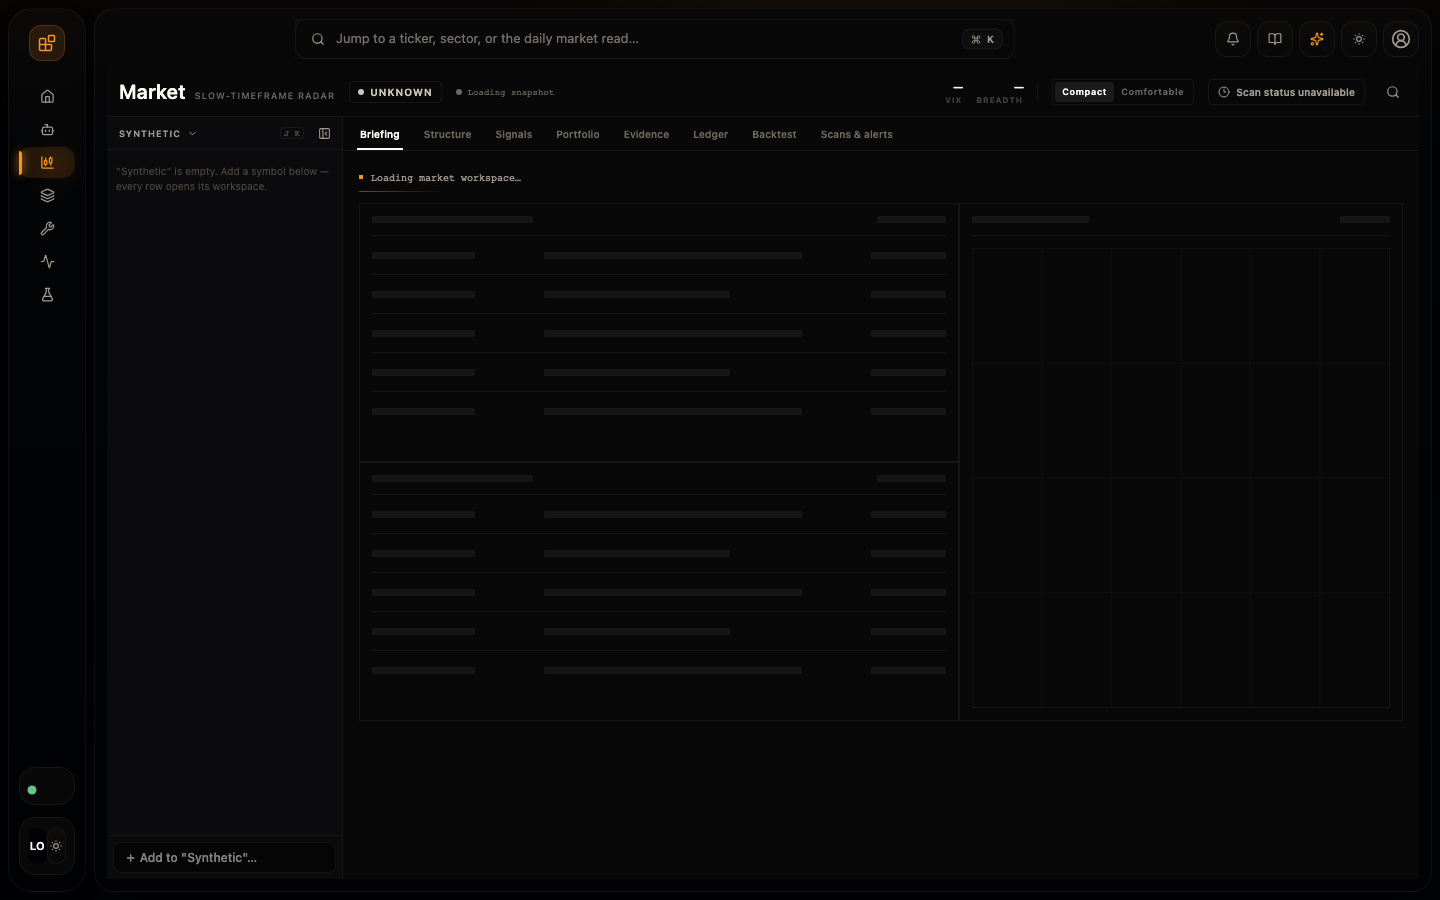
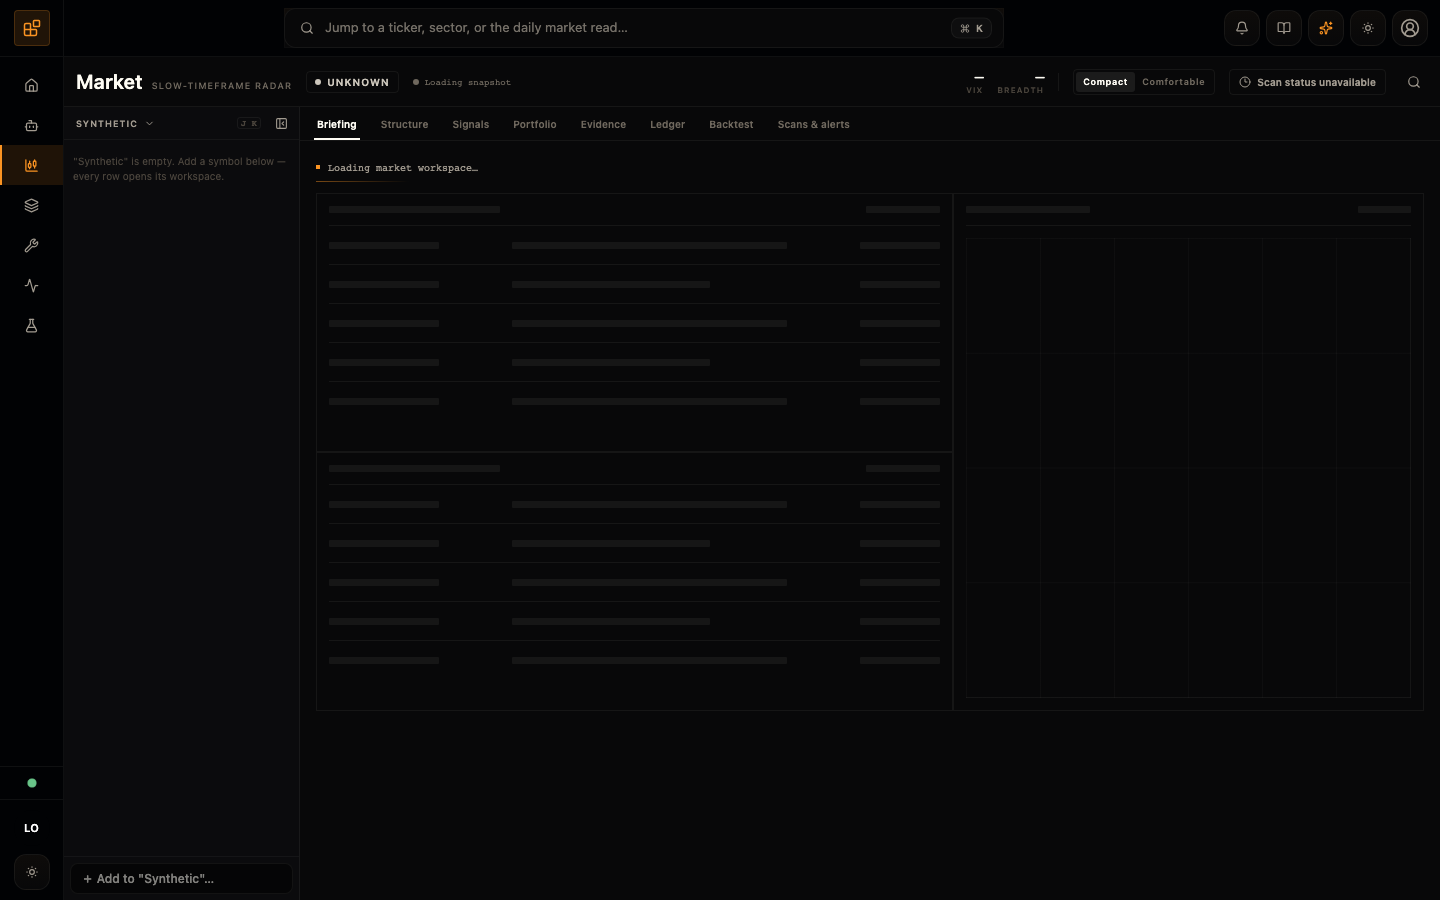
refactor(ui): flatten workspace shell and navigation rail
Remove the inset rounded shell, outer gutters, decorative backdrop, and isolated sidebar footer cards. Use an edge-to-edge workspace with thin dividers and a narrower collapsed navigation rail.

Verified typecheck and production build, synthetic chart-agent and loading browser flows, expanded navigation, both shell themes, and desktop/mobile geometry. Refresh sanitized Market screenshots.

diff --git a/src/copenet/host/frontend/src/components/SidebarNav.tsx b/src/copenet/host/frontend/src/components/SidebarNav.tsx
@@ -37,12 +37,12 @@ export function SidebarNav() {
 
   return (
     <aside
-      className={`shell-sidebar flex shrink-0 flex-col rounded-[24px] border border-shell-border bg-shell-sidebar py-4 shadow-shell transition-[width,padding] duration-200 ${
-        primaryNavCollapsed ? 'w-[78px] px-2.5' : 'w-[216px] px-3'
+      className={`shell-sidebar flex shrink-0 flex-col border-r border-shell-border bg-shell-sidebar transition-[width] duration-200 ${
+        primaryNavCollapsed ? 'w-16' : 'w-[216px]'
       }`}
     >
       {/* Brand */}
-      <div className={`flex items-center px-2 pb-5 ${primaryNavCollapsed ? 'justify-center' : 'justify-between gap-2.5'}`}>
+      <div className={`flex h-[57px] shrink-0 items-center border-b border-shell-border px-3 ${primaryNavCollapsed ? 'justify-center' : 'justify-between gap-2.5'}`}>
         <div className={`flex items-center ${primaryNavCollapsed ? 'justify-center' : 'gap-2.5'}`}>
           <button
             type="button"
@@ -50,7 +50,7 @@ export function SidebarNav() {
               if (primaryNavCollapsed) setPrimaryNavCollapsed(false);
             }}
             disabled={!primaryNavCollapsed}
-            className={`flex h-9 w-9 items-center justify-center rounded-xl border border-shell-accent/20 bg-shell-accent-soft text-shell-accent ${
+            className={`flex h-9 w-9 shrink-0 items-center justify-center rounded-sm border border-shell-accent/20 bg-shell-accent-soft text-shell-accent ${
               primaryNavCollapsed ? 'transition-colors hover:bg-shell-accent/10' : ''
             }`}
             title={primaryNavCollapsed ? 'Expand navigation' : undefined}
@@ -66,11 +66,11 @@ export function SidebarNav() {
           )}
         </div>
         {!primaryNavCollapsed && (
-          <div className="flex h-9 w-9 items-center justify-center rounded-xl border border-shell-accent/20 bg-shell-accent-soft text-shell-accent">
+          <div className="flex h-9 w-9 shrink-0 items-center justify-center rounded-sm border border-shell-accent/20 bg-shell-accent-soft text-shell-accent">
             <button
               type="button"
               onClick={() => setPrimaryNavCollapsed(true)}
-              className="flex h-full w-full items-center justify-center rounded-xl transition-colors hover:bg-shell-accent/10"
+              className="flex h-full w-full items-center justify-center rounded-sm transition-colors hover:bg-shell-accent/10"
               title="Collapse navigation"
               aria-label="Collapse navigation"
             >
@@ -81,7 +81,7 @@ export function SidebarNav() {
       </div>
 
       {/* Navigation */}
-      <nav className="flex flex-col gap-0.5">
+      <nav className="flex flex-col py-2">
         {NAV_ITEMS.map((item) => {
           const Icon = item.icon;
           const active = currentSection === item.id;
@@ -92,8 +92,8 @@ export function SidebarNav() {
               type="button"
               onClick={() => setCurrentSection(item.id)}
               title={primaryNavCollapsed ? item.label : undefined}
-              className={`group relative flex rounded-xl py-2 text-left text-[13px] font-medium transition-all duration-150 ${
-                primaryNavCollapsed ? 'justify-center px-2.5' : 'items-center gap-2.5 px-3'
+              className={`group relative flex min-h-10 items-center py-2 text-left text-[13px] font-medium transition-colors duration-150 ${
+                primaryNavCollapsed ? 'justify-center' : 'gap-2.5 px-3'
               } ${
                 active
                   ? 'bg-shell-accent-soft text-shell-text'
@@ -101,10 +101,7 @@ export function SidebarNav() {
               }`}
             >
               {active && (
-                <>
-                  <span className="absolute left-0 top-1/2 h-6 w-[3px] -translate-y-1/2 rounded-r-full bg-shell-accent shadow-[0_0_10px_var(--color-shell-accent)]" />
-                  <span className="pointer-events-none absolute inset-y-1 right-2 w-1/3 rounded-xl bg-shell-accent-glow blur-md" />
-                </>
+                <span className="absolute inset-y-0 left-0 w-0.5 bg-shell-accent" />
               )}
               <Icon className={`h-[15px] w-[15px] transition-colors duration-150 ${active ? 'text-shell-accent' : 'group-hover:text-shell-accent/60'}`} />
               {!primaryNavCollapsed && <span>{item.label}</span>}
@@ -114,14 +111,14 @@ export function SidebarNav() {
       </nav>
 
       {currentSection === 'agents' && (
-        <div className="pt-3">
+        <div className="border-t border-shell-border py-2">
           <button
             type="button"
             onClick={() => setSessionDrawerOpen(!sessionDrawerOpen)}
             title="Open Resume Session"
             aria-label="Open Resume Session"
-            className={`group relative flex w-full rounded-xl py-2 text-left text-[13px] font-medium transition-all duration-150 ${
-              primaryNavCollapsed ? 'justify-center px-2.5' : 'items-center gap-2.5 px-3'
+            className={`group relative flex min-h-10 w-full items-center py-2 text-left text-[13px] font-medium transition-colors duration-150 ${
+              primaryNavCollapsed ? 'justify-center' : 'gap-2.5 px-3'
             } ${
               sessionDrawerOpen
                 ? 'bg-shell-accent-soft text-shell-text'
@@ -129,10 +126,7 @@ export function SidebarNav() {
             }`}
           >
             {sessionDrawerOpen && (
-              <>
-                <span className="absolute left-0 top-1/2 h-6 w-[3px] -translate-y-1/2 rounded-r-full bg-shell-accent shadow-[0_0_10px_var(--color-shell-accent)]" />
-                <span className="pointer-events-none absolute inset-y-1 right-2 w-1/3 rounded-xl bg-shell-accent-glow blur-md" />
-              </>
+              <span className="absolute inset-y-0 left-0 w-0.5 bg-shell-accent" />
             )}
             <PanelLeft className={`h-[15px] w-[15px] transition-colors duration-150 ${sessionDrawerOpen ? 'text-shell-accent' : 'group-hover:text-shell-accent/60'}`} />
             {!primaryNavCollapsed && <span>Resume Session</span>}
@@ -141,15 +135,15 @@ export function SidebarNav() {
       )}
 
       {/* Footer */}
-      <div className="mt-auto space-y-3 pt-4">
-        <div className={`rounded-2xl border border-shell-border bg-shell-panel ${primaryNavCollapsed ? 'px-2 py-2.5' : 'px-3 py-3'}`}>
+      <div className="mt-auto">
+        <div className="border-t border-shell-border px-3 py-3" title={primaryNavCollapsed ? systemLabel : undefined}>
           {!primaryNavCollapsed && (
             <>
               <div className="mb-1.5 text-[10px] font-semibold uppercase tracking-[0.2em] text-shell-muted">System Health</div>
               <div className="text-[13px] text-shell-text">{systemLabel}</div>
             </>
           )}
-          <div className="mt-2 flex items-center gap-2">
+          <div className={`flex items-center gap-2 ${primaryNavCollapsed ? 'justify-center' : 'mt-2'}`}>
             <span className="relative flex h-2 w-2">
               {wsStatus === 'connected' && (
                 <span className="pulse-live absolute inline-flex h-full w-full rounded-full bg-shell-success opacity-60" />
@@ -169,7 +163,7 @@ export function SidebarNav() {
         </div>
 
         <div
-          className={`flex rounded-2xl border border-shell-border bg-shell-panel ${primaryNavCollapsed ? 'justify-center px-2 py-2.5' : 'items-center gap-2.5 px-3 py-2.5'}`}
+          className={`flex items-center border-t border-shell-border px-3 py-2.5 ${primaryNavCollapsed ? 'flex-col gap-2' : 'gap-2.5'}`}
           title={primaryNavCollapsed ? 'Local Operator' : undefined}
         >
           <div className="flex h-9 w-9 items-center justify-center rounded-full bg-shell-ink text-[11px] font-semibold text-white">LO</div>

diff --git a/src/copenet/host/frontend/src/components/AppShell.tsx b/src/copenet/host/frontend/src/components/AppShell.tsx
@@ -76,20 +76,19 @@ export function AppShell() {
 
   return (
     <div className="flex h-screen w-full max-w-full overflow-x-hidden overflow-y-hidden bg-shell-bg text-shell-text">
-      <div className="absolute inset-0 shell-backdrop pointer-events-none" />
       <CommandPalette />
       <PersonaFlavorReviewModal />
-      <div className={`relative flex h-full w-full max-w-full overflow-x-hidden ${isMobile ? 'p-0' : 'gap-2 p-2'}`}>
+      <div className="relative flex h-full w-full max-w-full overflow-x-hidden">
         {!isMobile && <SidebarNav />}
         <div
-          className={`shell-app-frame flex min-w-0 flex-1 max-w-full flex-col overflow-x-hidden overflow-y-hidden border border-shell-border bg-shell-canvas shadow-shell-xl ${
-            isMobile ? 'rounded-none border-x-0 border-t-0 pb-[calc(env(safe-area-inset-bottom)+6rem)]' : 'rounded-[20px] px-3 pb-3 pt-2.5'
+          className={`shell-app-frame flex min-w-0 flex-1 max-w-full flex-col overflow-x-hidden overflow-y-hidden bg-shell-canvas ${
+            isMobile ? 'pb-[calc(env(safe-area-inset-bottom)+6rem)]' : ''
           }`}
         >
           {showMobileTopBar && <MobileTopBar />}
           <ConnectionBanner />
           {!isMobile && currentSection !== 'agents' && (
-            <div className="flex items-center gap-2 pb-2">
+            <div className="flex shrink-0 items-center gap-2 border-b border-shell-border px-3 py-2">
               <TopCommandBar />
             </div>
           )}

diff --git a/src/copenet/host/frontend/src/index.css b/src/copenet/host/frontend/src/index.css
@@ -126,41 +126,6 @@ select {
   font: inherit;
 }
 
-/* ── Shell backdrop: subtle radial accent wash ── */
-.shell-backdrop {
-  background: radial-gradient(
-    ellipse 80% 50% at 18% 8%,
-    var(--color-shell-accent-glow),
-    transparent 60%
-  );
-}
-
-html[data-theme='dark'] .shell-backdrop {
-  background:
-    radial-gradient(ellipse 54% 36% at 62% 12%, rgba(251, 148, 35, 0.11), transparent 64%),
-    radial-gradient(ellipse 28% 22% at 82% 28%, rgba(105, 197, 137, 0.05), transparent 72%),
-    linear-gradient(180deg, rgba(251, 148, 35, 0.025), transparent 18%),
-    linear-gradient(180deg, #000103 0%, #010204 100%);
-}
-
-.shell-app-frame {
-  backdrop-filter: blur(12px);
-}
-
-html[data-theme='dark'] .shell-app-frame {
-  background:
-    linear-gradient(180deg, rgba(251, 148, 35, 0.022), transparent 14%),
-    linear-gradient(180deg, rgba(254, 252, 244, 0.01), rgba(254, 252, 244, 0)),
-    var(--color-shell-canvas);
-}
-
-html[data-theme='dark'] .shell-sidebar {
-  background:
-    linear-gradient(180deg, rgba(251, 148, 35, 0.032), rgba(251, 148, 35, 0) 16%),
-    linear-gradient(180deg, rgba(254, 252, 244, 0.01), rgba(254, 252, 244, 0)),
-    var(--color-shell-sidebar);
-}
-
 .shell-top-command-bar {
   box-sizing: border-box;
   padding-right: 216px;

diff --git a/README.md b/README.md
@@ -11,6 +11,10 @@ CopeNet is a *continuity engine* agent operator for people who want more than a 
 
 ## Product Tour
 
+The shared app shell uses an edge-to-edge workspace with a narrow navigation rail,
+square outer edges, and thin section borders. Market panels meet the shell directly,
+without an inset rounded container or surrounding gutters.
+
 ### Home Dashboard — workspace overview and operator launchpad
 The Home dashboard is the front door to CopeNet: the operator console with live workspace signal (active sessions, provider health, tools available), recent activity, system health, quick-start actions, and an ambient NASA *Picture of the Day* to orient you when you sit back down.
 
